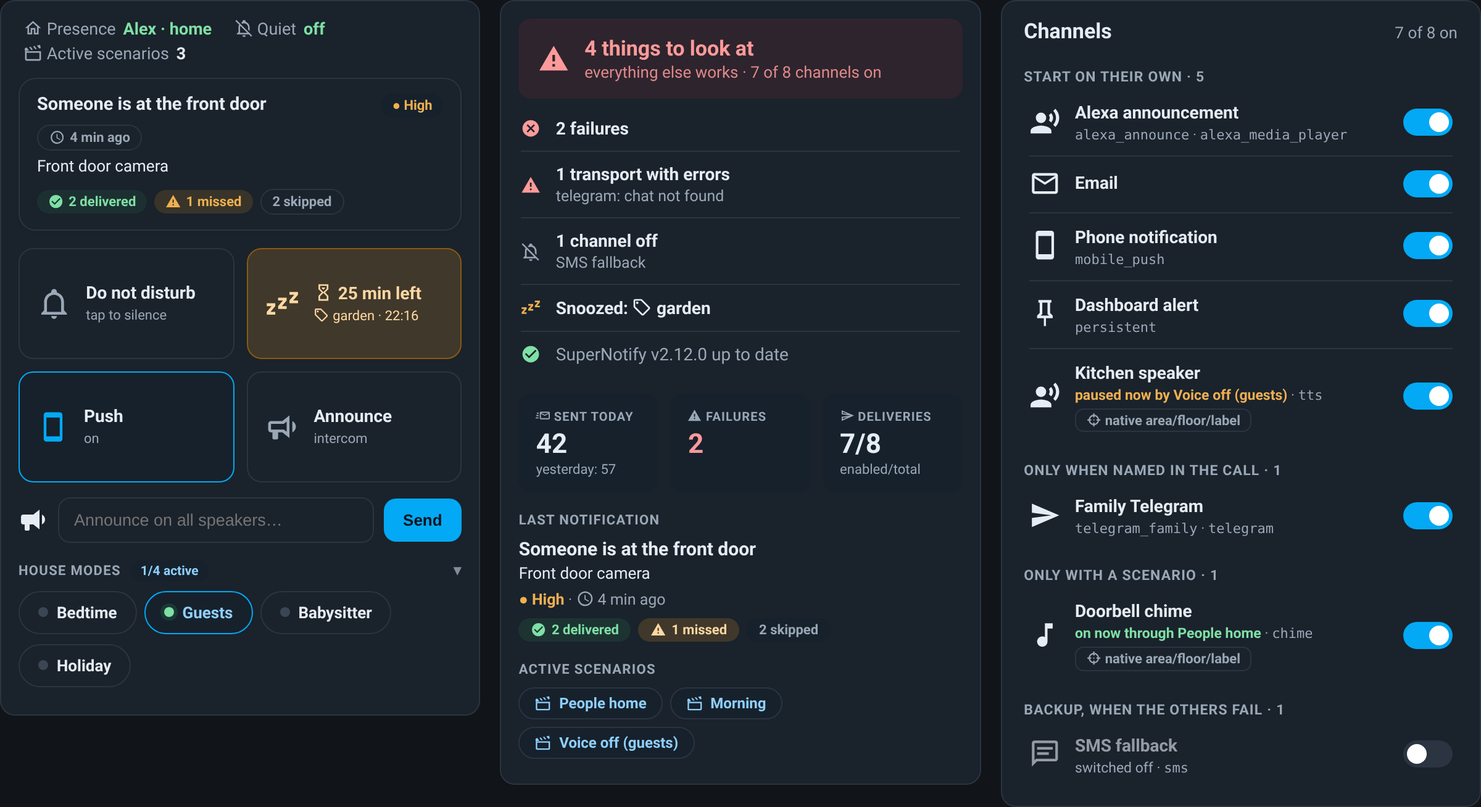
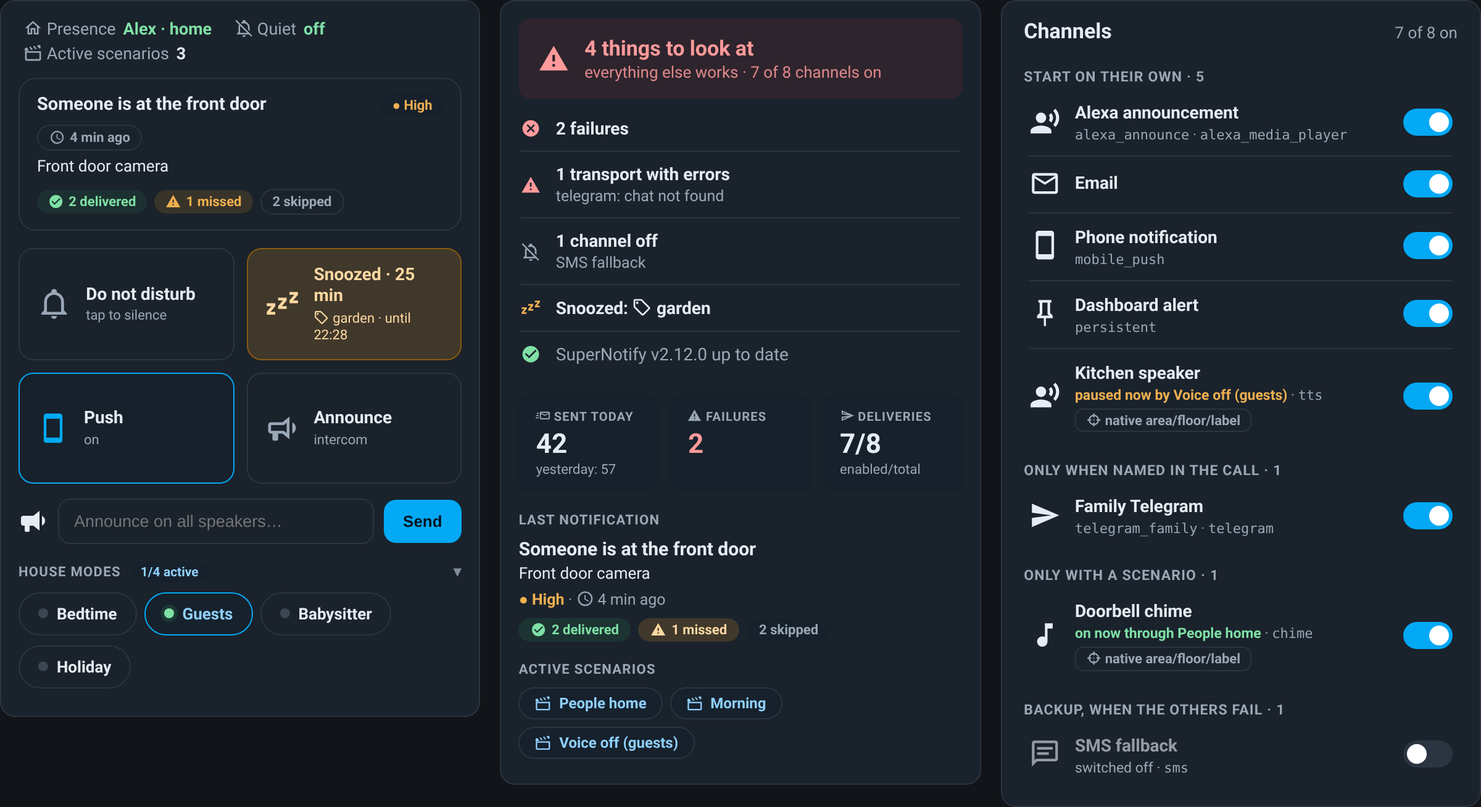
v0.59.0: design review part 2 - one-line bands, Apply now button, snooze tile label, readable transports, readable stats charts, stacked why step, scenario names in archive
Claude-Session: https://claude.ai/code/session_01ALt6dhzSXi9QkgiwPM6yvM

diff --git a/dist/supernotify-control-card.js b/dist/supernotify-control-card.js
@@ -8,6 +8,15 @@
  * Example config: see README.md
  *
  * CHANGELOG
+ * 2026-10-03 - v0.59.0. Design review, part 2 (finishing touches). (A5) archive and why: times
+ *   follow the HA profile's time format (snH12). (C3) bands-card 0.20.0: one line per band - name
+ *   and "until 13:00", start time, volume slider, percent; about 40% shorter. (C4) scenarios: the
+ *   manual scenario's "Apply now" is a button (Applied when on), one switch per row. (C5) control:
+ *   the snooze tile reads "Snoozed · 25 min", "garden · until 22:05". (C6) transports: readable
+ *   name first, technical name and "used by 2 channels" under it. (C1) stats: hour and weekday
+ *   charts drawn at their real width, labels 10.5 px, hours every 6. (C2) stats: day periods by
+ *   their band name. (C7) why: step 4 stacked. (C8) archive: scenarios in force by name. (C9)
+ *   simulator: the reason sits next to the channel name.
  * 2026-10-03 - v0.58.0. Design review, consistency and visible defects. (A1) stats-card number
  *   tiles are filled like the overview's, no border. (A2) snTech()/snSame(): one rule for technical
  *   names - small monospace, hidden when they say the same as the readable name (deliveries,
@@ -376,7 +385,7 @@
  *   Backup of the pre-change file: X:\sn_backups\supernotify_cards_20260908\supernotify-control-card_pre_toggle.js
  */
 
-const VERSION = "0.58.0"; // bundle / HACS release
+const VERSION = "0.59.0"; // bundle / HACS release
 
 /**
  * Per-card versions: bumped ONLY when that card changes (the bundle VERSION
@@ -387,19 +396,19 @@ const VERSION = "0.58.0"; // bundle / HACS release
  * without a bump here.
  */
 const SN_CARD_VERSIONS = {
-  control: "0.30.1",
+  control: "0.30.2",
   overview: "0.29.1",
-  bands: "0.19.0",
+  bands: "0.20.0",
   deliveries: "0.26.0",
-  transports: "0.22.2",
+  transports: "0.23.0",
   recipients: "0.26.2",
-  scenarios: "0.24.1",
-  simulator: "0.15.0",
+  scenarios: "0.25.0",
+  simulator: "0.15.1",
   composer: "0.19.1",
   automations: "0.20.1",
-  stats: "0.28.0",
-  archive: "0.36.1",
-  why: "0.12.1",
+  stats: "0.28.1",
+  archive: "0.36.2",
+  why: "0.12.2",
 };
 
 /**
@@ -421,7 +430,7 @@ const SN_STRINGS = {
     yesterday: "yesterday", failures: "Failures", deliveries: "Deliveries",
     enabled_total: "enabled/total", last_notif: "Last notification",
     transports: "Transports", delivered: "delivered", failed: "failed",
-    channels: "channels", none: "none", no_transports: "no transport entities found",
+    channels: "channels", none: "none", no_transports: "no transport entities found", tr_used: "used by", tr_unused: "no channel uses it",
     start: "start", volume: "volume", now: "now", crosses: "crosses midnight",
     no_voice: "no voice", mute_hint: "A band at <b>0%</b> sends <b>no voice announcement</b> at all (Alexa and TTS off, push and dashboard still delivered). Critical and high-priority alerts always speak.",
     enabled: "enabled", implicit: "always on", explicit: "on request",
@@ -447,7 +456,7 @@ const SN_STRINGS = {
     ln_why: "Why", tgt_loading: "loading the picker…", bands_empty_t: "No time bands yet",
     bands_empty: "Add one band per part of the day: an input_datetime for its start and an input_number for the voice volume.",
     active_now: "active now", disabled: "disabled", other: "Other",
-    manual: "manual", apply_now: "apply now", enabled_lbl: "enabled",
+    manual: "manual", apply_now: "apply now", applied: "Applied", apply_off: "tap to stop applying it", enabled_lbl: "enabled",
     reset_overrides: "Reset overrides", reset_done: "overrides reset",
     transport_off: "transport off", last_notified: "last notified", never_notified: "never notified",
     media: "media", no_scenarios: "no scenario entities found",
@@ -512,7 +521,7 @@ const SN_STRINGS = {
     yesterday: "ieri", failures: "Fallimenti", deliveries: "Delivery",
     enabled_total: "attive/totali", last_notif: "Ultima notifica",
     transports: "Transport", delivered: "consegnata", failed: "fallite",
-    channels: "canali", none: "nessuno", no_transports: "nessuna entità transport trovata",
+    channels: "canali", none: "nessuno", no_transports: "nessuna entità transport trovata", tr_used: "usato da", tr_unused: "nessun canale lo usa",
     start: "inizio", volume: "volume", now: "ora", crosses: "attraversa mezzanotte",
     no_voice: "niente voce", mute_hint: "Una fascia a <b>0%</b> <b>non manda proprio</b> l'annuncio vocale (Alexa e TTS spenti; push e notifica a schermo arrivano lo stesso). Gli avvisi critici e urgenti parlano sempre.",
     enabled: "attiva", implicit: "sempre attivo", explicit: "solo su richiesta",
@@ -537,7 +546,7 @@ const SN_STRINGS = {
     ln_why: "Perché", tgt_loading: "carico il selettore…", bands_empty_t: "Nessuna fascia oraria",
     bands_empty: "Aggiungi una fascia per ogni parte della giornata: un input_datetime per l'inizio e un input_number per il volume della voce.",
     active_now: "attivo ora", disabled: "disattivato", other: "Altro",
-    manual: "manuale", apply_now: "applica ora", enabled_lbl: "abilitato",
+    manual: "manuale", apply_now: "applica ora", applied: "Applicato", apply_off: "tocca per non applicarlo più", enabled_lbl: "abilitato",
     reset_overrides: "Ripristina override", reset_done: "override ripristinati",
     transport_off: "transport spento", last_notified: "ultimo avviso", never_notified: "nessun avviso",
     media: "media", no_scenarios: "nessuna entità scenario trovata",
@@ -835,6 +844,15 @@ function snSame(a, b) {
 function snTech(name, shown) {
   if (!name || snSame(name, shown)) return "";
   return `<span class="tech sn-tech" style="font-family:ui-monospace,'Roboto Mono',monospace;font-size:11px;font-weight:400">${String(name).replace(/&/g, "&amp;").replace(/</g, "&lt;")}</span>`;
+}
+
+/**
+ * 12 or 24 hours (0.59.0): the user's own choice in the HA profile (time_format "12" / "24"),
+ * else the language's default (undefined lets toLocale* decide).
+ */
+function snH12(hass) {
+  const f = hass && hass.locale && hass.locale.time_format;
+  return f === "12" ? true : f === "24" ? false : undefined;
 }
 
 function snW(T, key, n) {
@@ -2149,11 +2167,11 @@ class SupernotifyControlCard extends HTMLElement {
           const pad = (n) => String(n).padStart(2, "0");
           until = `${pad(end.getHours())}:${pad(end.getMinutes())}`;
           const mins = Math.max(1, Math.ceil((end - new Date()) / 60000));
-          left = `⏳ ${mins} ${T.min} ${T.left}`;
+          left = `${T.snoozed} · ${mins} ${T.min}`;
         }
         const what = snSnoozeLabels(this._hass, act, T);
         return { cls: "warn", icon: "😴", name: left || T.snoozed,
-          sub: what ? what + (until ? ` · ${until}` : "") : (until ? T.until + " " + until + " · " : "") + T.tap_clear,
+          sub: what ? what + (until ? ` · ${T.until} ${until}` : "") : (until ? T.until + " " + until + " · " : "") + T.tap_clear,
           act: () => this._snooze() };
       }
       return { cls: "", icon: "😴", name: `${T.snooze} ${c.snooze_minutes || 30} ${T.min}`,
@@ -2783,10 +2801,19 @@ class SupernotifyBandsCard extends HTMLElement {
       <style>
         :host { display: block; }
         ha-card { padding: 14px; background: ${p.panel}; color: ${p.ink}; }
-        .row { display: flex; align-items: center; gap: 12px; flex-wrap: wrap;
-               padding: 10px 8px; border-radius: 12px; }
+        /* 0.59.0: one line per band - name and end, start time, volume slider, percent */
+        .row { display: grid; grid-template-columns: minmax(0, 1fr) auto minmax(80px, 1fr) 42px;
+               align-items: center; gap: 12px; padding: 10px 8px; border-radius: 12px; position: relative; }
+        .row + .row::before { content: ""; position: absolute; left: 8px; right: 8px; top: 0;
+               border-top: 1px solid ${p.line}; pointer-events: none; }
+        .row.act::before, .row.act + .row::before { display: none; }
+        @container (max-width: 380px) {
+          .row { grid-template-columns: auto minmax(0, 1fr) 42px; row-gap: 6px; }
+          .who { grid-column: 1 / -1; }
+        }
+        .pct { font-weight: 800; font-size: 14px; text-align: right; font-variant-numeric: tabular-nums; }
         .row.act { background: ${p.okSoft}; }
-        .who { flex: 1; min-width: 150px; }
+        .who { min-width: 0; }
         .who b { font-size: 14px; }
         .who .rng { font-size: 11.5px; color: ${p.muted}; margin-top: 1px; }
         .badge { border-radius: 999px; padding: 3px 10px; font-size: 11px;
@@ -2803,7 +2830,7 @@ class SupernotifyBandsCard extends HTMLElement {
         input[type=time] { border: 1.5px solid ${p.line}; border-radius: 8px;
                  padding: 6px 8px; font-size: 13px; background: ${p.panel}; color: ${p.ink}; }
         input[type=time]:focus { outline: none; border-color: ${p.brand}; }
-        .volwrap { min-width: 150px; }
+        .volwrap { min-width: 0; }
         input[type=range] { width: 100%; accent-color: ${p.brand}; }
         .ver { text-align: right; font-size: 10px; color: ${p.muted}; opacity: .7; margin-top: 8px; }
         ${SN_FLOW_CSS}
@@ -2838,12 +2865,11 @@ class SupernotifyBandsCard extends HTMLElement {
         const isMute = b.vol === 0;
         return `<div class="row ${isAct ? "act" : ""} ${isMute ? "mute" : ""}" data-row="${b.key}">
         <div class="who"><b>${b.icon} ${b.name}</b> <span class="badge" data-now ${isAct ? "" : "hidden"}>${T.now}</span><span class="badge mute" data-m="${b.key}" ${isMute ? "" : "hidden"}>&nbsp;\u{1F507} ${T.no_voice}</span>
-          <div class="rng">${b.hhmm || "\u2014"} \u2192 ${next.hhmm || "\u2014"}${i === bands.length - 1 ? " \u00b7 " + T.crosses : ""}</div>
+          <div class="rng">${T.until} ${next.hhmm || "\u2014"}${i === bands.length - 1 ? " \u00b7 " + T.crosses : ""}</div>
         </div>
-        <div class="fld"><span class="k">${T.start}</span>
-          <input type="time" value="${b.hhmm}" data-e="${b.start}"></div>
-        <div class="fld volwrap"><span class="k">${T.volume} <span data-l="${b.key}">${b.vol != null ? b.vol : "\u2014"}</span>%</span>
-          <input type="range" min="0" max="100" value="${b.vol != null ? b.vol : 0}" data-e="${b.volume || ""}" data-k="${b.key}"></div>
+        <input type="time" value="${b.hhmm}" data-e="${b.start}" aria-label="${b.name} - ${T.start}" title="${T.start}">
+        <input type="range" class="volwrap" min="0" max="100" value="${b.vol != null ? b.vol : 0}" data-e="${b.volume || ""}" data-k="${b.key}" aria-label="${b.name} - ${T.volume}" title="${T.volume}">
+        <span class="pct"><span data-l="${b.key}">${b.vol != null ? b.vol : "\u2014"}</span>%</span>
       </div>`;
       }).join(""), this && this._config);
       rows.dataset.sig = sig;
@@ -2866,7 +2892,7 @@ class SupernotifyBandsCard extends HTMLElement {
       if (mb) mb.hidden = !isMute;
       const rng = row.querySelector(".rng");
       if (rng) {
-        rng.textContent = `${b.hhmm || "\u2014"} \u2192 ${next.hhmm || "\u2014"}`
+        rng.textContent = `${T.until} ${next.hhmm || "\u2014"}`
           + (i === bands.length - 1 ? " \u00b7 " + T.crosses : "");
       }
       const ti = row.querySelector("input[type=time]");
@@ -2930,6 +2956,15 @@ window.customCards.push({
 const SN_NATIVE_TARGET_TRANSPORTS = [
   "notify_entity", "alexa_devices", "html5", "ntfy", "kodi", "media_player", "tts", "chime",
 ];
+
+// readable transport names (0.59.0); a transport not listed keeps its technical name
+const SN_TRANSPORT_LABELS = {
+  alexa_devices: "Alexa", alexa_media_player: "Alexa Media Player", chime: "Chime", email: "Email",
+  mobile_push: "Mobile app", persistent: "Home Assistant", sms: "SMS", telegram: "Telegram", tts: "Text to speech",
+  media: "Media player", notify_entity: "Notify entity", generic: "Notify action", pushover: "Pushover", ntfy: "ntfy",
+  gotify: "Gotify", matrix: "Matrix", discord: "Discord", html5: "HTML5 push", kodi: "Kodi", google_cast: "Google Cast",
+  mqtt: "MQTT", whatsapp: "WhatsApp", signal: "Signal",
+};
 
 const SN_TRANSPORT_ICONS = {
   mobile_push: "📱", telegram: "✈", alexa_media_player: "🗣", alexa_devices: "🗣",
@@ -3310,9 +3345,14 @@ class SupernotifyTransportsCard extends HTMLElement {
       if (errCount > 0) tags.push(`<span class="tag err">⚠ ${errCount} · ${esc(t.a.last_error_message || "")}</span>`);
       let alias = snCleanName(t.a.friendly_name, t.name);
       if (/Transport Adaptor$/i.test(alias)) alias = "";
+      const label = alias || SN_TRANSPORT_LABELS[t.name] || t.name;
+      const used = Object.keys(this._hass.states).filter((e) => e.startsWith("switch.supernotify_delivery_")
+        && this._hass.states[e].attributes && this._hass.states[e].attributes.transport === t.name).length;
+      const use = used ? `${T.tr_used} ${snPl(T, "channels", used)}` : T.tr_unused;
       return `<div class="row" data-i="${i}">
         <span class="em">${em}</span>
-        <div class="mid"><b>${esc(t.name)}</b>${alias ? ` <span class="sub">· ${esc(alias)}</span>` : ""}
+        <div class="mid"><b>${esc(label)}</b>
+          <div class="sub">${[snTech(t.name, label), esc(use)].filter(Boolean).join(" · ")}</div>
           ${tags.length ? `<div class="tags">${tags.join("")}</div>` : ""}
         </div>
         <label class="sw" data-id="${esc(t.id)}" style="--sn-sw-line:${p.line};--sn-sw-on:${p.brand}">
@@ -3732,6 +3772,9 @@ class SupernotifyScenariosCard extends HTMLElement {
         .b-dis { background: rgba(226,60,60,.10); color: ${p.crit}; }
         .row.dis .mid { opacity: .55; }
         .mlbl { font-size: 10.5px; color: ${p.muted}; flex-shrink: 0; }
+        .apb { flex-shrink: 0; border: 1.5px solid ${p.brand}; background: ${p.panel}; color: ${p.brandD}; border-radius: 999px;
+               padding: 6px 12px; font: inherit; font-size: 12px; font-weight: 700; cursor: pointer; min-height: 32px; }
+        .apb.on { background: ${p.ok}; border-color: ${p.ok}; color: #fff; }
         ${SN_SWITCH_CSS}
         ${SN_FLOW_CSS}
         .ver { text-align: right; font-size: 10px; color: ${p.muted}; opacity: .7; margin-top: 8px; }
@@ -3769,9 +3812,8 @@ class SupernotifyScenariosCard extends HTMLElement {
       : (s.enabled === false ? `<span class="badge b-dis">${T.disabled}</span>` : "");
     // Manual scenario (no conditions): its binary_sensor state IS the control.
     const man = s.manual && s.bsId
-      ? `<span class="mlbl">${T.apply_now}</span><label class="sw man" data-id="${esc(s.bsId)}" style="--sn-sw-line:${p.line};--sn-sw-on:${p.ok}">
-          <input type="checkbox" ${s.state === "on" ? "checked" : ""} aria-label="${esc((alias || s.name) + " - " + T.apply_now)}" title="${T.apply_now}">
-          <span class="sl"></span></label>`
+      ? `<button class="apb${s.state === "on" ? " on" : ""}" data-id="${esc(s.bsId)}" data-on="${s.state === "on" ? 1 : 0}"
+          aria-pressed="${s.state === "on"}" title="${esc(s.state === "on" ? T.apply_off : T.apply_now)}">${s.state === "on" ? "✔ " + esc(T.applied) : esc(T.apply_now.charAt(0).toUpperCase() + T.apply_now.slice(1))}</button>`
       : "";
     return `<div class="row ${isAct ? "act" : ""} ${s.enabled === false ? "dis" : ""}" data-i="${i}">
       <span class="em">${em}</span>
@@ -3821,9 +3863,13 @@ class SupernotifyScenariosCard extends HTMLElement {
     rows.innerHTML = snIconify(html, this && this._config);
     rows.querySelectorAll(".row").forEach((node) => {
       node.onclick = (e) => {
-        if (e.target.closest(".sw")) return;
+        if (e.target.closest(".sw") || e.target.closest(".apb")) return;
         this._moreInfo(all[+node.dataset.i].id);
       };
+    });
+    // the manual scenario's binary_sensor: SuperNotify applies the scenario while it is on
+    rows.querySelectorAll(".apb").forEach((b) => {
+      b.onclick = (e) => { e.stopPropagation(); snToggle(this._hass, b.dataset.id, b.dataset.on !== "1"); };
     });
     rows.querySelectorAll(".sw").forEach((label) => {
       label.addEventListener("click", (e) => e.stopPropagation());
@@ -3952,7 +3998,7 @@ class SupernotifySimulatorCard extends HTMLElement {
         .hint { font-size: 11.5px; color: ${p.muted}; margin-top: 8px; }
         .sh { font-size: 12px; font-weight: 700; color: ${p.muted}; margin: 10px 0 4px; }
         .sh.go { color: ${p.ok}; }
-        .sr { display: grid; grid-template-columns: 22px minmax(0, 1fr) minmax(0, 1.3fr); gap: 8px; align-items: baseline;
+        .sr { display: grid; grid-template-columns: 22px minmax(0, min(15em, 42%)) minmax(0, 1fr); gap: 8px 14px; align-items: baseline;
               padding: 7px 2px; border-bottom: 1px solid ${p.line}; font-size: 13.5px; }
         .sr:last-child { border-bottom: 0; }
         .sr .si { color: ${p.muted}; } .sr.go .si { color: ${p.ok}; }
@@ -4945,6 +4991,7 @@ class SupernotifyStatsCard extends HTMLElement {
 
   _chartWidth() {
     const w = this.getBoundingClientRect ? this.getBoundingClientRect().width : 0;
+    this._cardW = w; // 0.59.0: the side-by-side charts are drawn at half of this
     return Math.max(300, Math.min(600, Math.round((w || 600) - 28)));
   }
 
@@ -5164,7 +5211,7 @@ class SupernotifyStatsCard extends HTMLElement {
         @container (max-width: 640px) { .grid2 { grid-template-columns: 1fr; } }
         @container (max-width: 460px) { .hrow .nm { width: 46%; min-width: 90px; } .hrow .ct { width: 48px; } }
         svg { width: 100%; height: auto; display: block; overflow: visible; }
-        .bars text { font-size: 9px; fill: ${p.muted}; }
+        .bars text { font-size: 10.5px; fill: ${p.muted}; }
         .bars .val { font-size: 9.5px; fill: ${p.ink}; font-weight: 700; }
         .hrow { display: flex; align-items: center; gap: 8px; font-size: 12.5px; padding: 4px 0; }
         .hrow .nm { width: 38%; min-width: 110px; overflow: hidden; text-overflow: ellipsis; white-space: nowrap; }
@@ -5258,9 +5305,9 @@ class SupernotifyStatsCard extends HTMLElement {
       l: (d.perDay.length - 1 - i) % every === 0 ? `${x.d.getDate()}/${x.d.getMonth() + 1}` : "",
       v: x.n, hi: x.today })), p, { avg: d.avg });
     // hourly
-    const hourly = this._barsSvg(d.perHour.map((v, h) => ({ l: h % 3 === 0 ? String(h) : "", v, hi: h === d.peakHour })), p, { thin: true });
+    const hourly = this._barsSvg(d.perHour.map((v, h) => ({ l: h % 6 === 0 ? String(h) : "", v, hi: h === d.peakHour })), p, { thin: true, half: true });
     // weekday
-    const wd = this._barsSvg(d.perWd.map((v, i) => ({ l: T.st_wd[i], v })), p, {});
+    const wd = this._barsSvg(d.perWd.map((v, i) => ({ l: T.st_wd[i], v })), p, { half: true });
     // channels
     const maxCh = d.channels.length ? d.channels[0].ok + d.channels[0].ko : 1;
     const chRows = d.channels.slice(0, this._config.top_channels).map((ch) => {
@@ -5280,7 +5327,7 @@ class SupernotifyStatsCard extends HTMLElement {
       `<span class="chip"><i style="background:${SN_PRIO_COLORS[k]}"></i>${T["prio_" + k] || k} ${Math.round((d.prioCount[k] / prioTot) * 100)}%</span>`).join("") || `<span class="empty">—</span>`;
     const perTot = Object.values(d.periodCount).reduce((a, b) => a + b, 0) || 1;
     const perChips = Object.keys(d.periodCount).sort((a, b) => d.periodCount[b] - d.periodCount[a]).map((k) =>
-      `<span class="chip">${esc(k)} ${Math.round((d.periodCount[k] / perTot) * 100)}%</span>`).join("") || `<span class="empty">—</span>`;
+      `<span class="chip">${esc(snBandName(T, String(k).trim().toLowerCase().replace(/[\s-]+/g, "_")))} ${Math.round((d.periodCount[k] / perTot) * 100)}%</span>`).join("") || `<span class="empty">—</span>`;
 
     body.innerHTML = snIconify(`
       <div class="kpis">${kpis}</div>
@@ -5317,7 +5364,10 @@ class SupernotifyStatsCard extends HTMLElement {
   _barsSvg(items, p, opt) {
     const n = items.length || 1;
     // drawn at the card's own width (300-600), so 9 px labels stay 9 px on a phone
-    const W = this._svgW || 600, H = 110, padB = 18, padT = 14;
+    // 0.59.0: the hour and weekday charts sit side by side above 640 px, so they are drawn at
+    // half the width - otherwise the browser shrinks them and their labels drop to ~5 px
+    const full = this._svgW || 600, cw = this._cardW || 0;
+    const W = opt.half && cw > 640 ? Math.max(260, Math.min(600, Math.round((cw - 28 - 18) / 2))) : full, H = 110, padB = 18, padT = 14;
     const max = Math.max(1, ...items.map((i) => i.v));
     const gap = opt.thin ? 2 : 4;
     const bw = (W - gap * (n - 1)) / n;
@@ -5655,7 +5705,7 @@ class SupernotifyArchiveCard extends HTMLElement {
       return true;
     });
     const parts = [];
-    const gen = idx.generated ? new Date(idx.generated).toLocaleTimeString(this._loc(), { hour: "2-digit", minute: "2-digit" }) : "";
+    const gen = idx.generated ? new Date(idx.generated).toLocaleTimeString(this._loc(), { hour: "2-digit", minute: "2-digit", hour12: snH12(this._hass) }) : "";
     const old = idx.oldest ? new Date(idx.oldest).toLocaleDateString(this._loc()) : "";
     meta.innerHTML = snIconify(idx.native
       ? `${idx.items.length} ${T.recent}` + (gen ? ` · ${T.read_at} ${gen}` : "")
@@ -5670,13 +5720,13 @@ class SupernotifyArchiveCard extends HTMLElement {
       const d = new Date(r.t * 1000);
       const day = this._dayLabel(d, T);
       if (day !== lastDay) { parts.push(`<div class="day">${esc(day)}</div>`); lastDay = day; }
-      const hm = d.toLocaleTimeString(this._loc(), { hour: "2-digit", minute: "2-digit" });
+      const hm = d.toLocaleTimeString(this._loc(), { hour: "2-digit", minute: "2-digit", hour12: snH12(this._hass) });
       const chans = this._channels(r, idx).map((c) =>
         `<span class="tg ${c.state}" title="${esc(c.name)}">${c.state === "ok" ? "✔" : c.state === "err" ? "✖" : "⊘"} ${esc(snDeliveryAlias(this._hass, c.name) || c.name)}` +
         `${c.reason ? " · " + esc(c.reason) : ""}</span>`).join("");
       const prio = r.p ? `<span class="tg pr ${esc(r.p)}">● ${esc((T.prio && T.prio[r.p]) || r.p)}</span>` : "";
       const wh = r.w ? `<span class="tg wh">\u{1F92B} ${T.wh}</span>` : "";
-      const scen = (r.sc || []).map((s) => esc(idx.scen[s] || "?")).join(", ");
+      const scen = (r.sc || []).map((s) => esc(idx.scen[s] ? snScenarioName(this._hass, idx.scen[s]) : "?")).join(", ");
       const open = this._open.has(r.id) ? " open" : "";
       parts.push(
         `<div class="row${open}" data-id="${esc(r.id)}" title="id ${esc(r.id)}">
@@ -5972,7 +6022,7 @@ class SupernotifyWhyCard extends HTMLElement {
     if (!items.length) { el.innerHTML = snIconify(`<div class="empty">${T.none}</div>`, this && this._config); return; }
     el.innerHTML = snIconify(items.map((r) => {
       const d = new Date(r.t * 1000);
-      const hm = d.toLocaleString(this._loc(), { weekday: "short", hour: "2-digit", minute: "2-digit" });
+      const hm = d.toLocaleString(this._loc(), { weekday: "short", hour: "2-digit", minute: "2-digit", hour12: snH12(this._hass) });
       return `<div class="it${this._sel === r.id ? " sel" : ""}" data-id="${esc(r.id)}">
         <span class="dot ${this._outcomeClass(r)}"></span><span class="hm">${esc(hm)}</span>
         <span class="ti">${esc(r.ti || r.m || "—")}</span></div>`;
@@ -6142,7 +6192,7 @@ class SupernotifyWhyCard extends HTMLElement {
 
     // header: what and when
     const d = new Date((n.t || 0) * 1000);
-    const when = d.toLocaleString(this._loc(), { weekday: "long", day: "numeric", month: "long", hour: "2-digit", minute: "2-digit" });
+    const when = d.toLocaleString(this._loc(), { weekday: "long", day: "numeric", month: "long", hour: "2-digit", minute: "2-digit", hour12: snH12(this._hass) });
     const prioTxt = snT(this._config, this._hass)["prio_" + (n.p || "medium")] || n.p || "medium";
     out.push(`<div class="hd"><div class="meta">${esc(when)} · ${T.priority} ${esc(prioTxt)} · ${esc(T.outcomes[n.o] || n.o || "—")}${n.dupe ? ` · ♻ ${T.dupe}` : ""}</div>
       <b class="ttl">${esc(n.ti || "—")}</b>
@@ -6174,7 +6224,7 @@ class SupernotifyWhyCard extends HTMLElement {
     const peopleTxt = home === null ? "—" : home.length ? `${T.home}: ${home.join(", ")}` : T.nobody;
     const chTxt = [`<b class="c-ok">${sent.length}</b> ${snW(T, "ch_sent", sent.length)}`,
       problems.length ? `<b class="c-pb">${problems.length}</b> ${T.ch_problems}` : "",
-      skipped.length ? `${snPl(T, "ch_skipped", skipped.length)}` : ""].filter(Boolean).join(" · ");
+      skipped.length ? `<span style="opacity:.8">${snPl(T, "ch_skipped", skipped.length)}</span>` : ""].filter(Boolean).map((x) => `<div>${x}</div>`).join("");
     const step = (i, label, body, more) => `<div class="step"><div class="sk">${i} · ${label}</div><div class="sb">${body}</div>${more ? `<div class="sm">${more}</div>` : ""}</div>`;
     out.push(`<div class="path">
       ${step(1, T.step_call, esc(callTxt), n.trace ? esc(T.call_debug) : "")}

diff --git a/CHANGELOG.md b/CHANGELOG.md
@@ -3,6 +3,25 @@
 All notable changes to **supernotify-control-card** are documented here.
 Format based on [Keep a Changelog](https://keepachangelog.com/en/1.1.0/).
 
+## [0.59.0] - 2026-10-03
+
+Design review, part 2: finishing touches.
+
+### Changed
+- bands-card 0.20.0: one line per band - name and "until 13:00", start time, volume slider and
+  percent - about 40% shorter. On a narrow card the name goes on its own line.
+- scenarios-card: a manual scenario's "Apply now" is a button ("Applied" while on), so every row
+  has a single switch, the one that enables the scenario.
+- control-card: the snooze tile reads "Snoozed · 25 min" with "garden · until 22:05" under it.
+- transports-card: the readable name comes first (Alexa Media Player, Mobile app, Text to
+  speech...), with the technical name and "used by 2 channels" under it.
+- stats-card: the hour and weekday charts are drawn at their real width when side by side, so
+  their labels stay readable (10.5 px, hours every 6); day periods use the band names.
+- why-card: step 4 (channels) is stacked like the other steps.
+- archive-card: scenarios in force by name, not by id.
+- simulator-card: the reason sits next to the channel name on wide cards.
+- Archive and why: times follow the time format chosen in the Home Assistant profile (12/24 h).
+
 ## [0.58.0] - 2026-10-03
 
 Design review, part 1: the cards look like one family, and six visible defects are gone.
